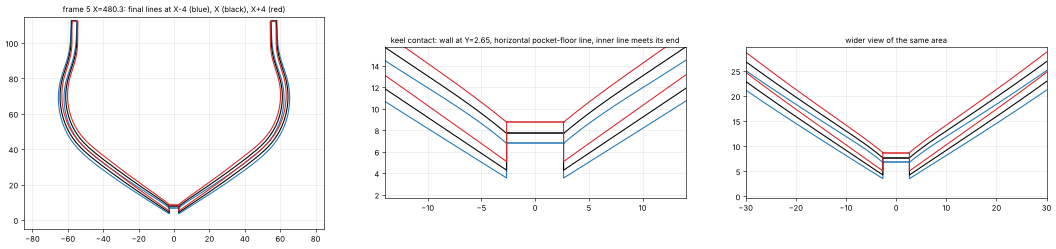
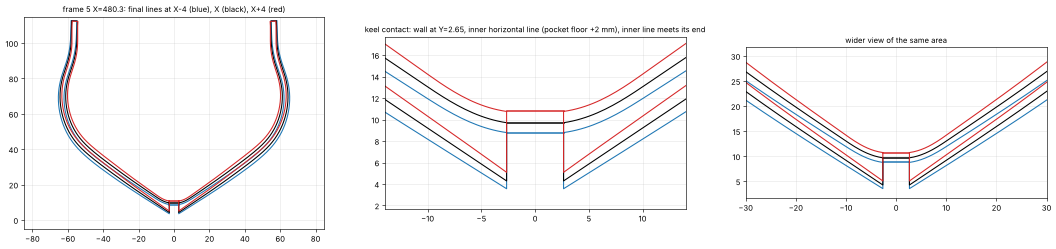
Frame 5: inner horizontal line raised 2 mm, thicker end face at the keel wall
Claude-Session: https://claude.ai/code/session_017HV2YHL4JdRTKuYXk76aAy

diff --git a/royal_caroline/py/frame_one_2d.py b/royal_caroline/py/frame_one_2d.py
@@ -8,24 +8,10 @@ from scipy.signal import savgol_filter
 from shapely.geometry import Polygon
 from shapely.ops import unary_union
 import matplotlib; matplotlib.use('Agg'); import matplotlib.pyplot as plt
-V2=json.load(open('data/keel_keelson_v2.json')); kK=UnivariateSpline(V2['keel_surface']['X'],V2['keel_surface']['Z'],k=3,s=0); DEPTH=V2['depth']; KB=F.KB; T=F.T
+from frame_arm import arm,KB,DEPTH,kK,RAISE
 xc=F.XF[46-b-1]; fc={'X-4':xc-4,'X':xc,'X+4':xc+4}; cols={'X-4':'tab:blue','X':'k','X+4':'tab:red'}
-def arm(X):
-    floor=float(kK(min(X,526.0)))-DEPTH
-    P=F.hull_line(X); P=P[np.argsort(P[:,1])]
-    # hull line extended inward to the keel wall along its own cubic fit (last 10 mm), then the vertical wall
-    m=(P[:,0]<=P[0,0]+10); c=np.polyfit(P[m,0],P[m,1],3); ys=np.linspace(KB,P[0,0],12,endpoint=False); ext=np.c_[ys,np.polyval(c,ys)]
-    O=np.vstack([ext,P]); hk=float(ext[0,1])
-    sm=np.c_[savgol_filter(O[:,0],11,3),savgol_filter(O[:,1],11,3)]; d=np.gradient(sm,axis=0); d/=np.hypot(*d.T)[:,None]; N=np.c_[-d[:,1],d[:,0]]; I=O+N*T
-    # inner line: its own spline from the end of the floor line (KB, floor) through the exact offset points further out
-    s_=np.r_[0,np.cumsum(np.hypot(*np.diff(I,axis=0).T))]; sel=[i for i in range(len(I)) if I[i,0]>=KB+6]; k0=sel[0]
-    nodes=[(KB,floor)]+[tuple(I[k0+int(np.argmin(abs(s_[k0:]-(s_[k0]+dd))))]) for dd in (0,3,6,9)]
-    tk,u=splprep(np.array(nodes).T,k=3,s=0); yy,zz=splev(np.linspace(0,1,40),tk); inner_conn=np.c_[yy,zz]
-    inner=np.vstack([inner_conn,I[k0+int(np.argmin(abs(s_[k0:]-(s_[k0]+9))))+1:]])
-    poly=Polygon(np.vstack([[[KB,floor]],[[KB,hk]],O[len(ext):],inner[::-1]])).buffer(0)
-    return poly,dict(floor=floor,hull_at_wall=hk,inner_at_wall_natural=float(I[0,1]),O=O,inner=inner)
 arms={n:arm(X) for n,X in fc.items()}
-for n,(p,i) in arms.items(): print('%-4s floor %.2f | outer line at the keel wall %.2f (wall %.2f mm) | inner line natural at the wall %.2f -> moves %.2f mm to meet the floor end | arm area %.0f mm2 valid %s'%(n,i['floor'],i['hull_at_wall'],i['floor']-i['hull_at_wall'],i['inner_at_wall_natural'],i['floor']-i['inner_at_wall_natural'],p.area,p.is_valid))
+for n,(p,i) in arms.items(): print('%-4s inner horizontal line %.2f | outer line at the keel wall %.2f (wall %.2f mm) | inner line natural at the wall %.2f -> moves %.2f mm to meet the floor end | arm area %.0f mm2 valid %s'%(n,i['floor'],i['hull_at_wall'],i['floor']-i['hull_at_wall'],i['inner_at_wall_natural'],i['floor']-i['inner_at_wall_natural'],p.area,p.is_valid))
 mir=lambda g: __import__('shapely.affinity',fromlist=['scale']).scale(g,xfact=-1,yfact=1,origin=(0,0))
 fig,axs=plt.subplots(1,3,figsize=(24,10))
 def draw(a,xl,yl,title):
@@ -35,6 +21,6 @@ def draw(a,xl,yl,title):
     a.set_aspect('equal'); a.set_xlim(*xl); a.set_ylim(*yl); a.grid(alpha=.3); a.set_title(title,fontsize=10)
 f=arms['X'][1]['floor']
 draw(axs[0],(-85,85),(-5,115),'frame %d X=%.1f: final lines at X-4 (blue), X (black), X+4 (red)'%(b,xc))
-draw(axs[1],(-14,14),(f-6,f+8),'keel contact: wall at Y=2.65, horizontal pocket-floor line, inner line meets its end')
+draw(axs[1],(-14,14),(f-8,f+8),'keel contact: wall at Y=2.65, inner horizontal line (pocket floor +2 mm), inner line meets its end')
 draw(axs[2],(-30,30),(f-8,f+22),'wider view of the same area')
 fig.savefig('qa/frame%d_one_2d.png'%b,dpi=55,bbox_inches='tight')

diff --git a/royal_caroline/py/frame_arm.py b/royal_caroline/py/frame_arm.py
@@ -7,9 +7,9 @@ from scipy.signal import savgol_filter
 from shapely.geometry import Polygon
 from shapely.ops import unary_union
 import matplotlib; matplotlib.use('Agg'); import matplotlib.pyplot as plt
-V2=json.load(open('data/keel_keelson_v2.json')); kK=UnivariateSpline(V2['keel_surface']['X'],V2['keel_surface']['Z'],k=3,s=0); DEPTH=V2['depth']; KB=F.KB; T=F.T
+V2=json.load(open('data/keel_keelson_v2.json')); kK=UnivariateSpline(V2['keel_surface']['X'],V2['keel_surface']['Z'],k=3,s=0); DEPTH=V2['depth']; KB=F.KB; T=F.T; RAISE=float(os.environ.get('RAISE','2.0'))
 def arm(X):
-    floor=float(kK(min(X,526.0)))-DEPTH
+    floor=float(kK(min(X,526.0)))-DEPTH+RAISE      # inner horizontal line raised by RAISE mm (no thin neck at the keel wall)
     P=F.hull_line(X); P=P[np.argsort(P[:,1])]
     # hull line extended inward to the keel wall along its own cubic fit (last 10 mm), then the vertical wall
     m=(P[:,0]<=P[0,0]+10); c=np.polyfit(P[m,0],P[m,1],3); ys=np.linspace(KB,P[0,0],12,endpoint=False); ext=np.c_[ys,np.polyval(c,ys)]

diff --git a/royal_caroline/STATE.md b/royal_caroline/STATE.md
@@ -318,3 +318,5 @@ Working rules are in `royal_caroline/CLAUDE.md`; read them first.
 - 2026-11-06 builder answers: outer (iron) hull line stops at the keel wall (vertical wall); only ONE horizontal line = keel pocket floor, backbone width; inner line deviates slightly inward and meets its end. Frame 5 2D: `python3 py/frame_one_2d.py 5` -> qa/frame5_one_2d.png. Not yet propagated to frames_batch_2d.py / 3D blanks.
 
 - 2026-11-06 side view of keel with pockets and the frame-5 arm end face: py/keel_side_frame.py 5 -> qa/keel_side_frame5.png (pocket 1.0 mm; arm end face 3.2-3.7 mm below the floor, covers the keel side wall). py/frame_arm.py = arm function.
+
+- 2026-11-06 builder: raise the inner horizontal line by 2 mm (no thin neck at the keel wall) and let the inner line leave the 3.2 offset to meet it. frame_arm.py RAISE=2.0. Frame 5: inner horizontal 8.79/9.70/10.75, wall 5.2-5.7 mm, inner line moves 2.5-3.1 mm. qa/frame5_one_2d.png, qa/keel_side_frame5.png.
